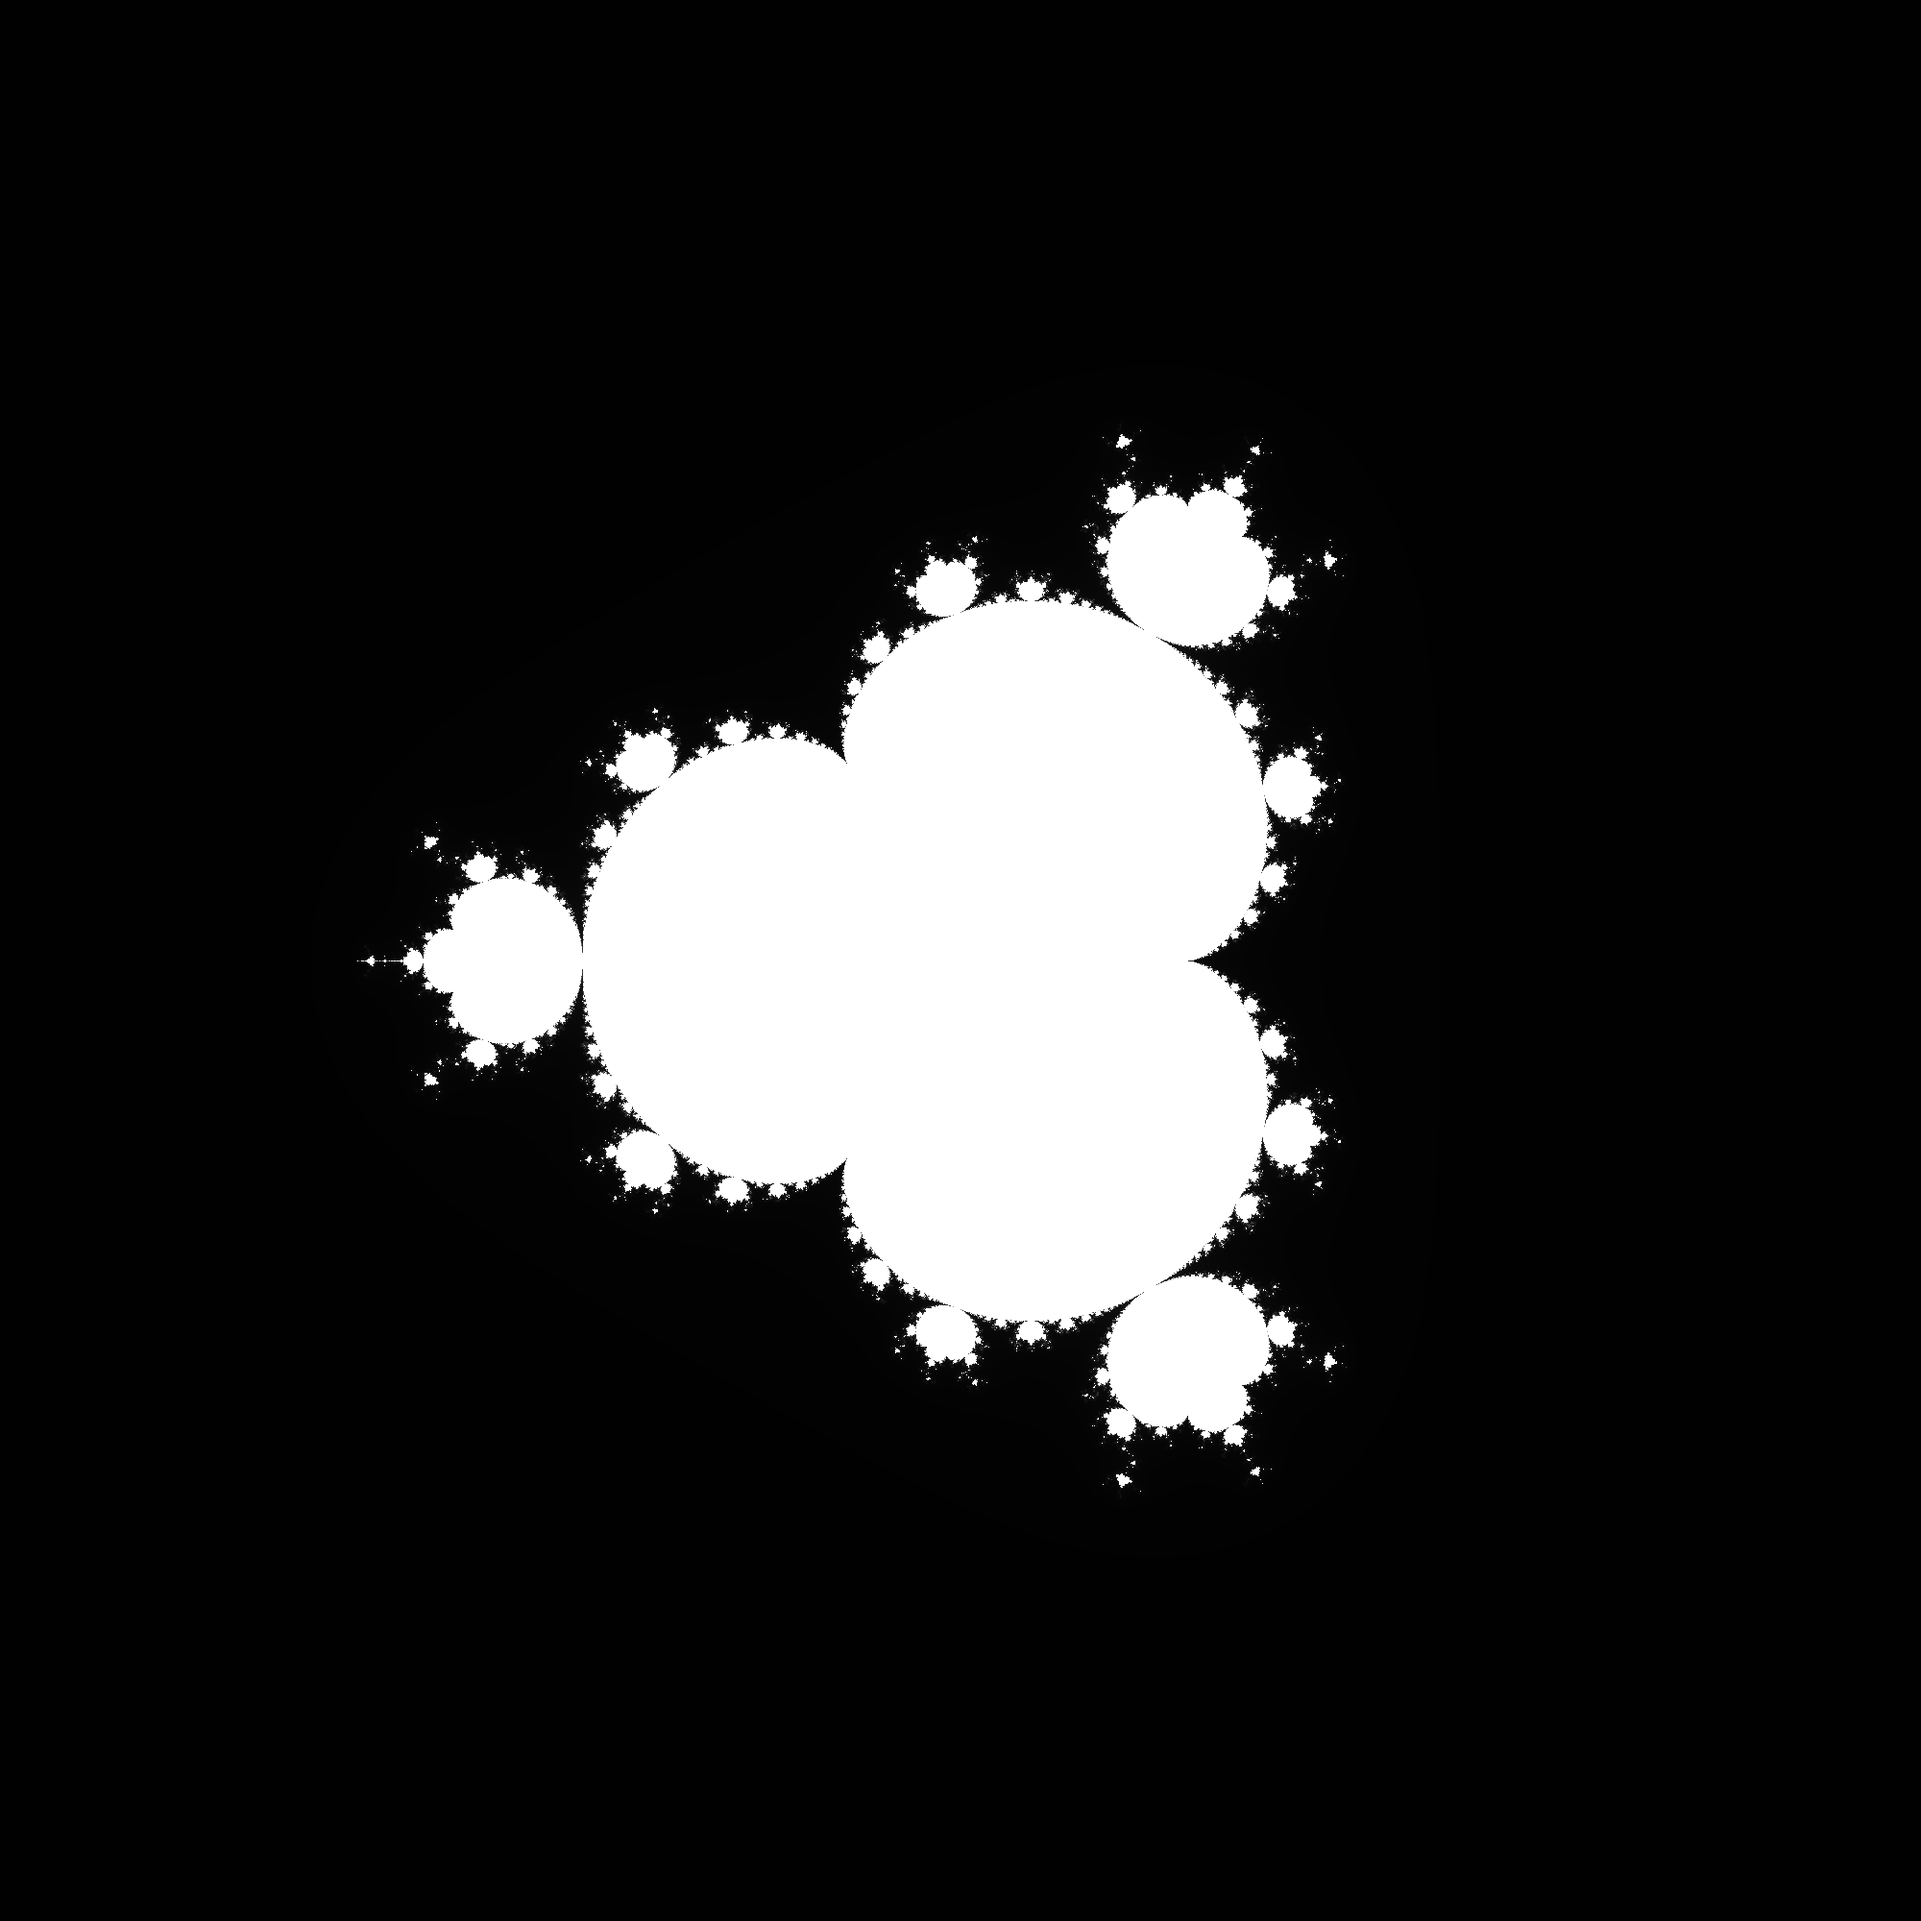
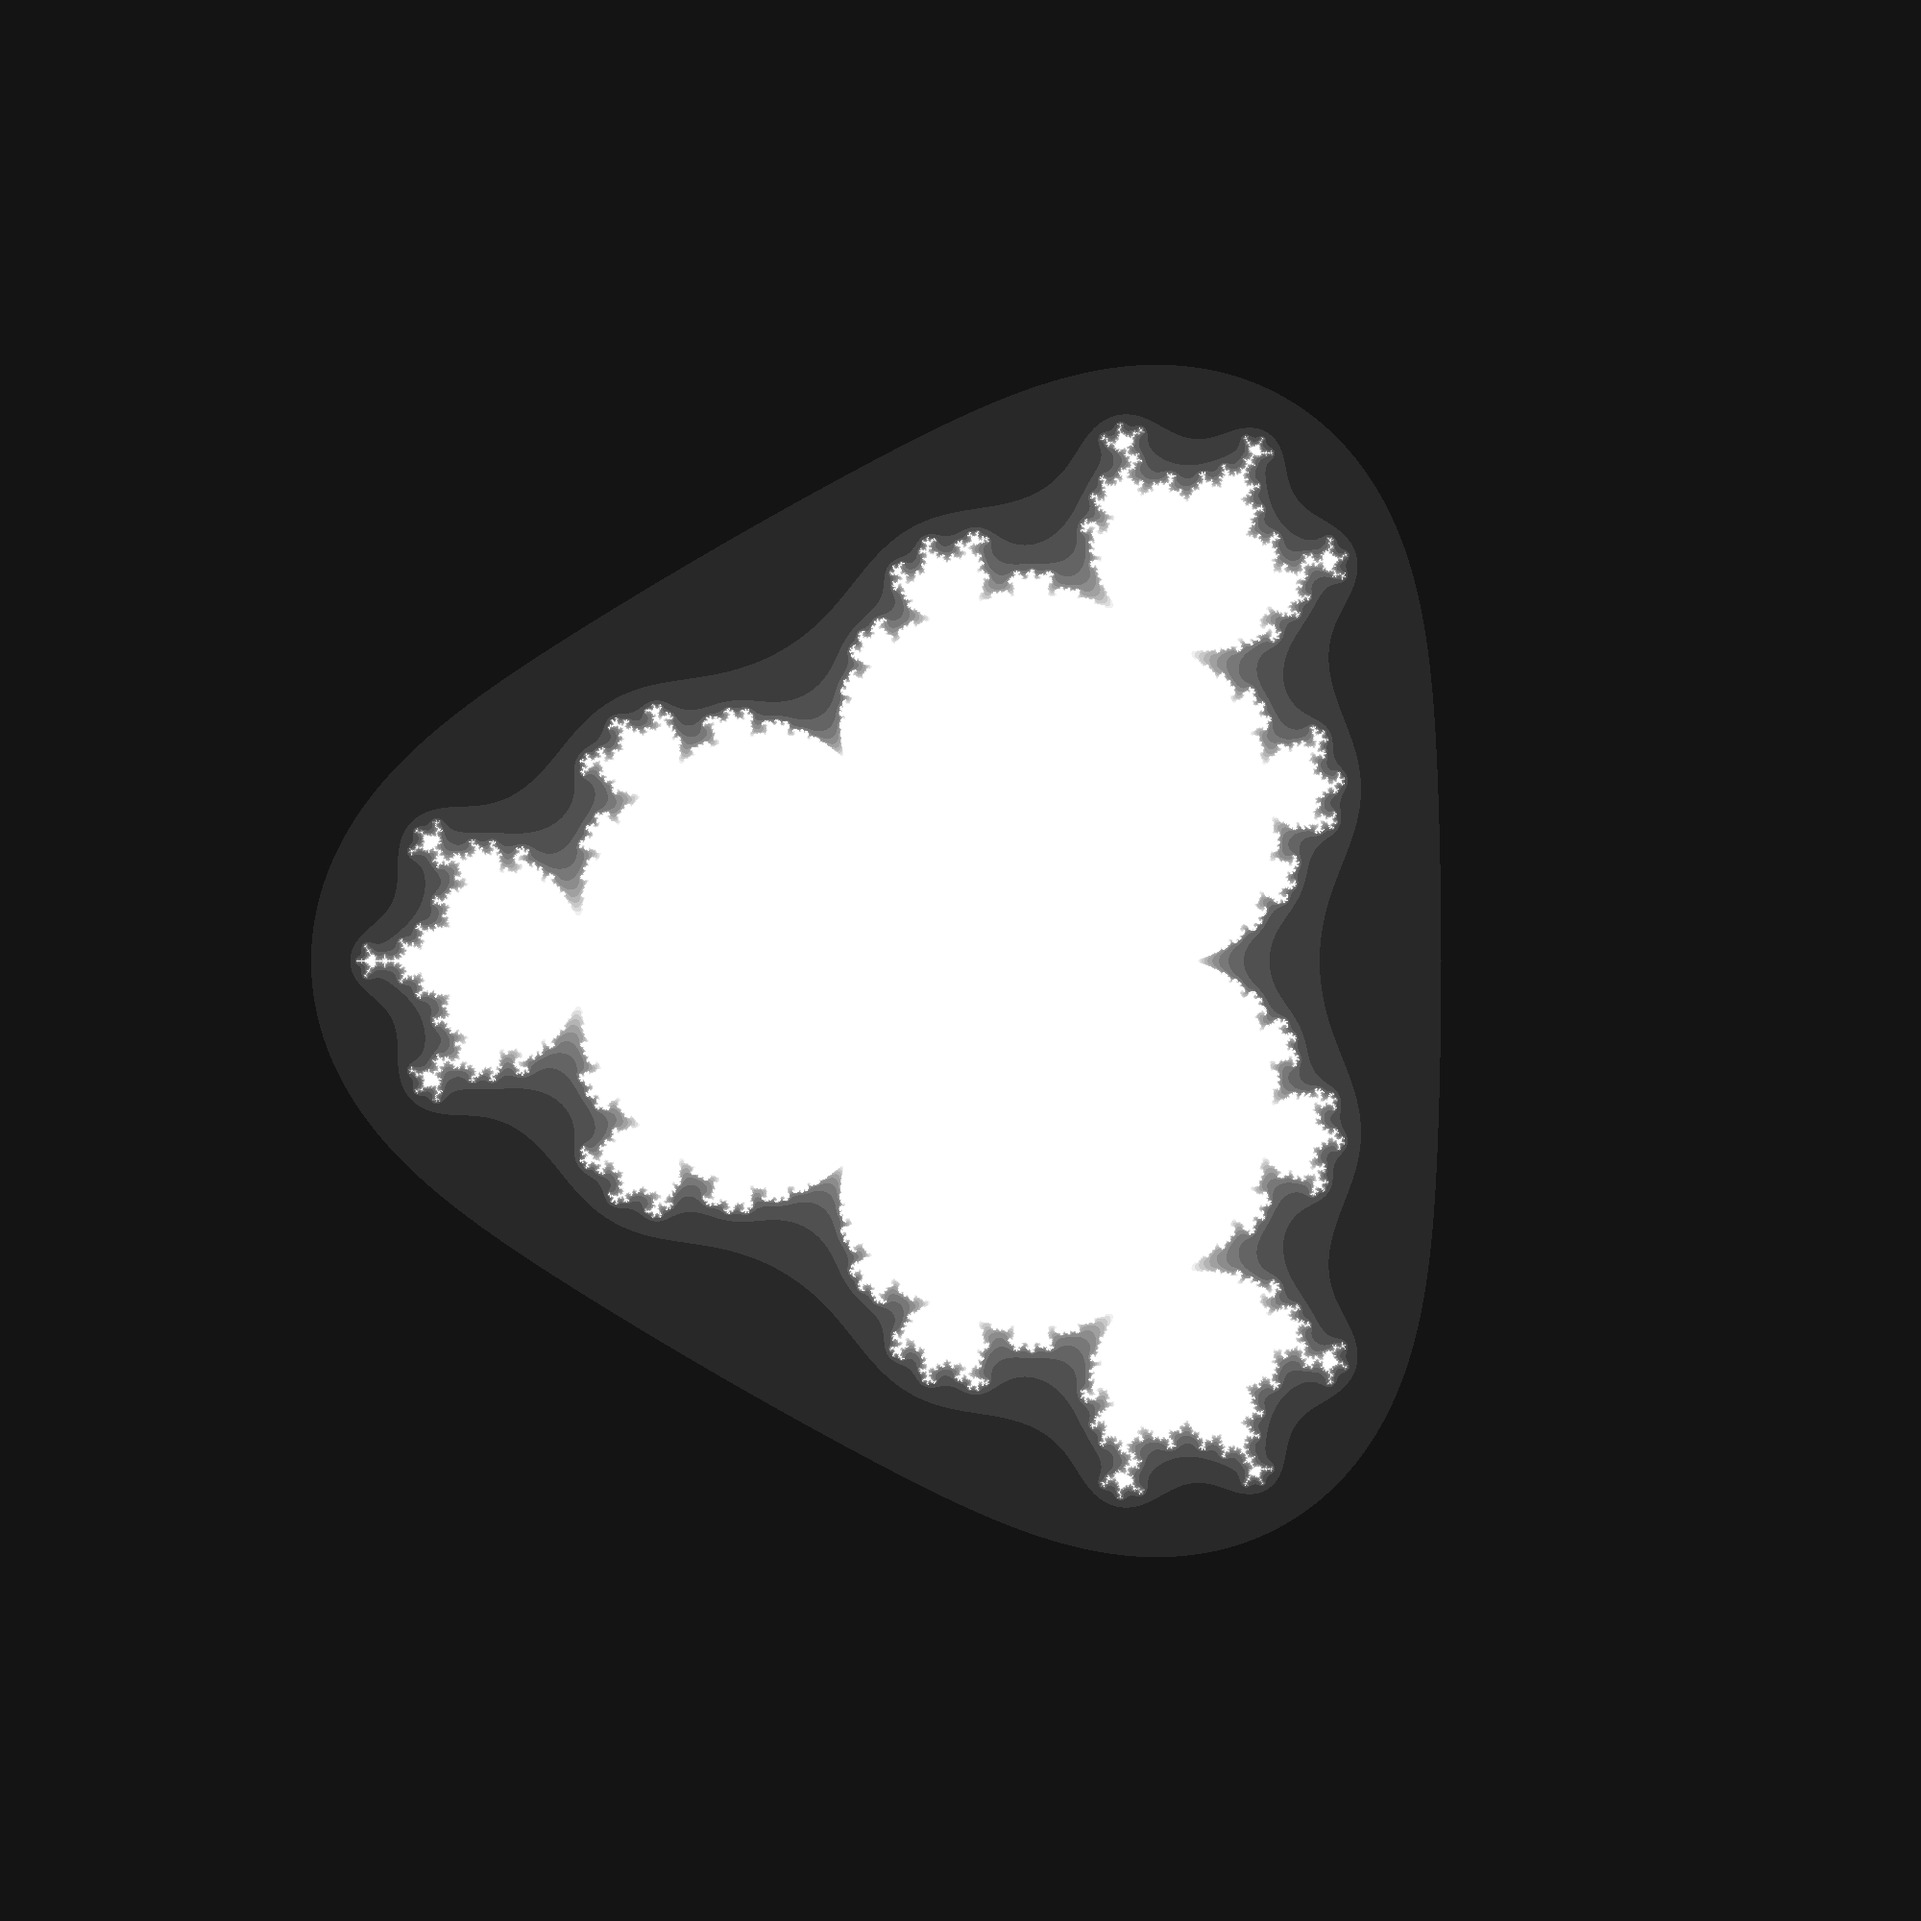
Update examples.

Changed region(s): [[0.155, 0.186, 0.775, 0.837]]

diff --git a/README.md b/README.md
@@ -21,7 +21,7 @@ For Julia sets:
                [d]
 ```
 
-And for Mandelbrot sets:
+And for (generalized) Mandelbrot sets:
 ```
 ./fractastic M [width] [height]
                [x_min] [x_max] [y_min] [y_max]
@@ -91,7 +91,7 @@ I deleted the `ppm` output of these commands before uploading them to the git re
 *f(z) = z<sup>3</sup> + (-0.4 + 0.6i)*
 
 ```
-./run.sh examples/julia3 J 2000 2000 -2 2 -2 2 1000 1 -0.4 0.6 3
+./run.sh examples/julia3 J 2000 2000 -2 2 -2 2 1000 20 -0.4 0.6 3
 ```
 
 #### Output
@@ -119,7 +119,7 @@ I deleted the `ppm` output of these commands before uploading them to the git re
 *f(z) = z<sup>2</sup> + c*
 
 ```
-./run.sh examples/mandel1 M 2000 2000 -2.5 1.5 -2 2 1000 1 2
+./run.sh examples/mandel1 M 2000 2000 -2.5 1.5 -2 2 1000 20 2
 ```
 
 #### Output
@@ -133,7 +133,7 @@ I deleted the `ppm` output of these commands before uploading them to the git re
 *f(z) = z<sup>3</sup> + c*
 
 ```
-./run.sh examples/mandel2 M 2000 2000 -2 2 -2 2 1000 1 3
+./run.sh examples/mandel2 M 2000 2000 -2 2 -2 2 1000 20 3
 ```
 
 #### Output
@@ -147,12 +147,26 @@ I deleted the `ppm` output of these commands before uploading them to the git re
 *f(z) = z<sup>4</sup> + c*
 
 ```
-./run.sh examples/mandel3 M 2000 2000 -2 2 -2 2 1000 1 4
+./run.sh examples/mandel3 M 2000 2000 -2 2 -2 2 1000 20 4
 ```
 
 #### Output
 
 ![Mandelbrot Set Fractal 3](/examples/mandel3.png?raw=true "Mandelbrot Set Fractal 3")
+
+### Example 8 (Mandelbrot Set)
+
+#### Input
+
+*f(z) = z<sup>6</sup> + c*
+
+```
+./run.sh examples/mandel4 M 2000 2000 -2 2 -2 2 1000 20 6
+```
+
+#### Output
+
+![Mandelbrot Set Fractal 4](/examples/mandel4.png?raw=true "Mandelbrot Set Fractal 4")
 
 ## Purpose
 
